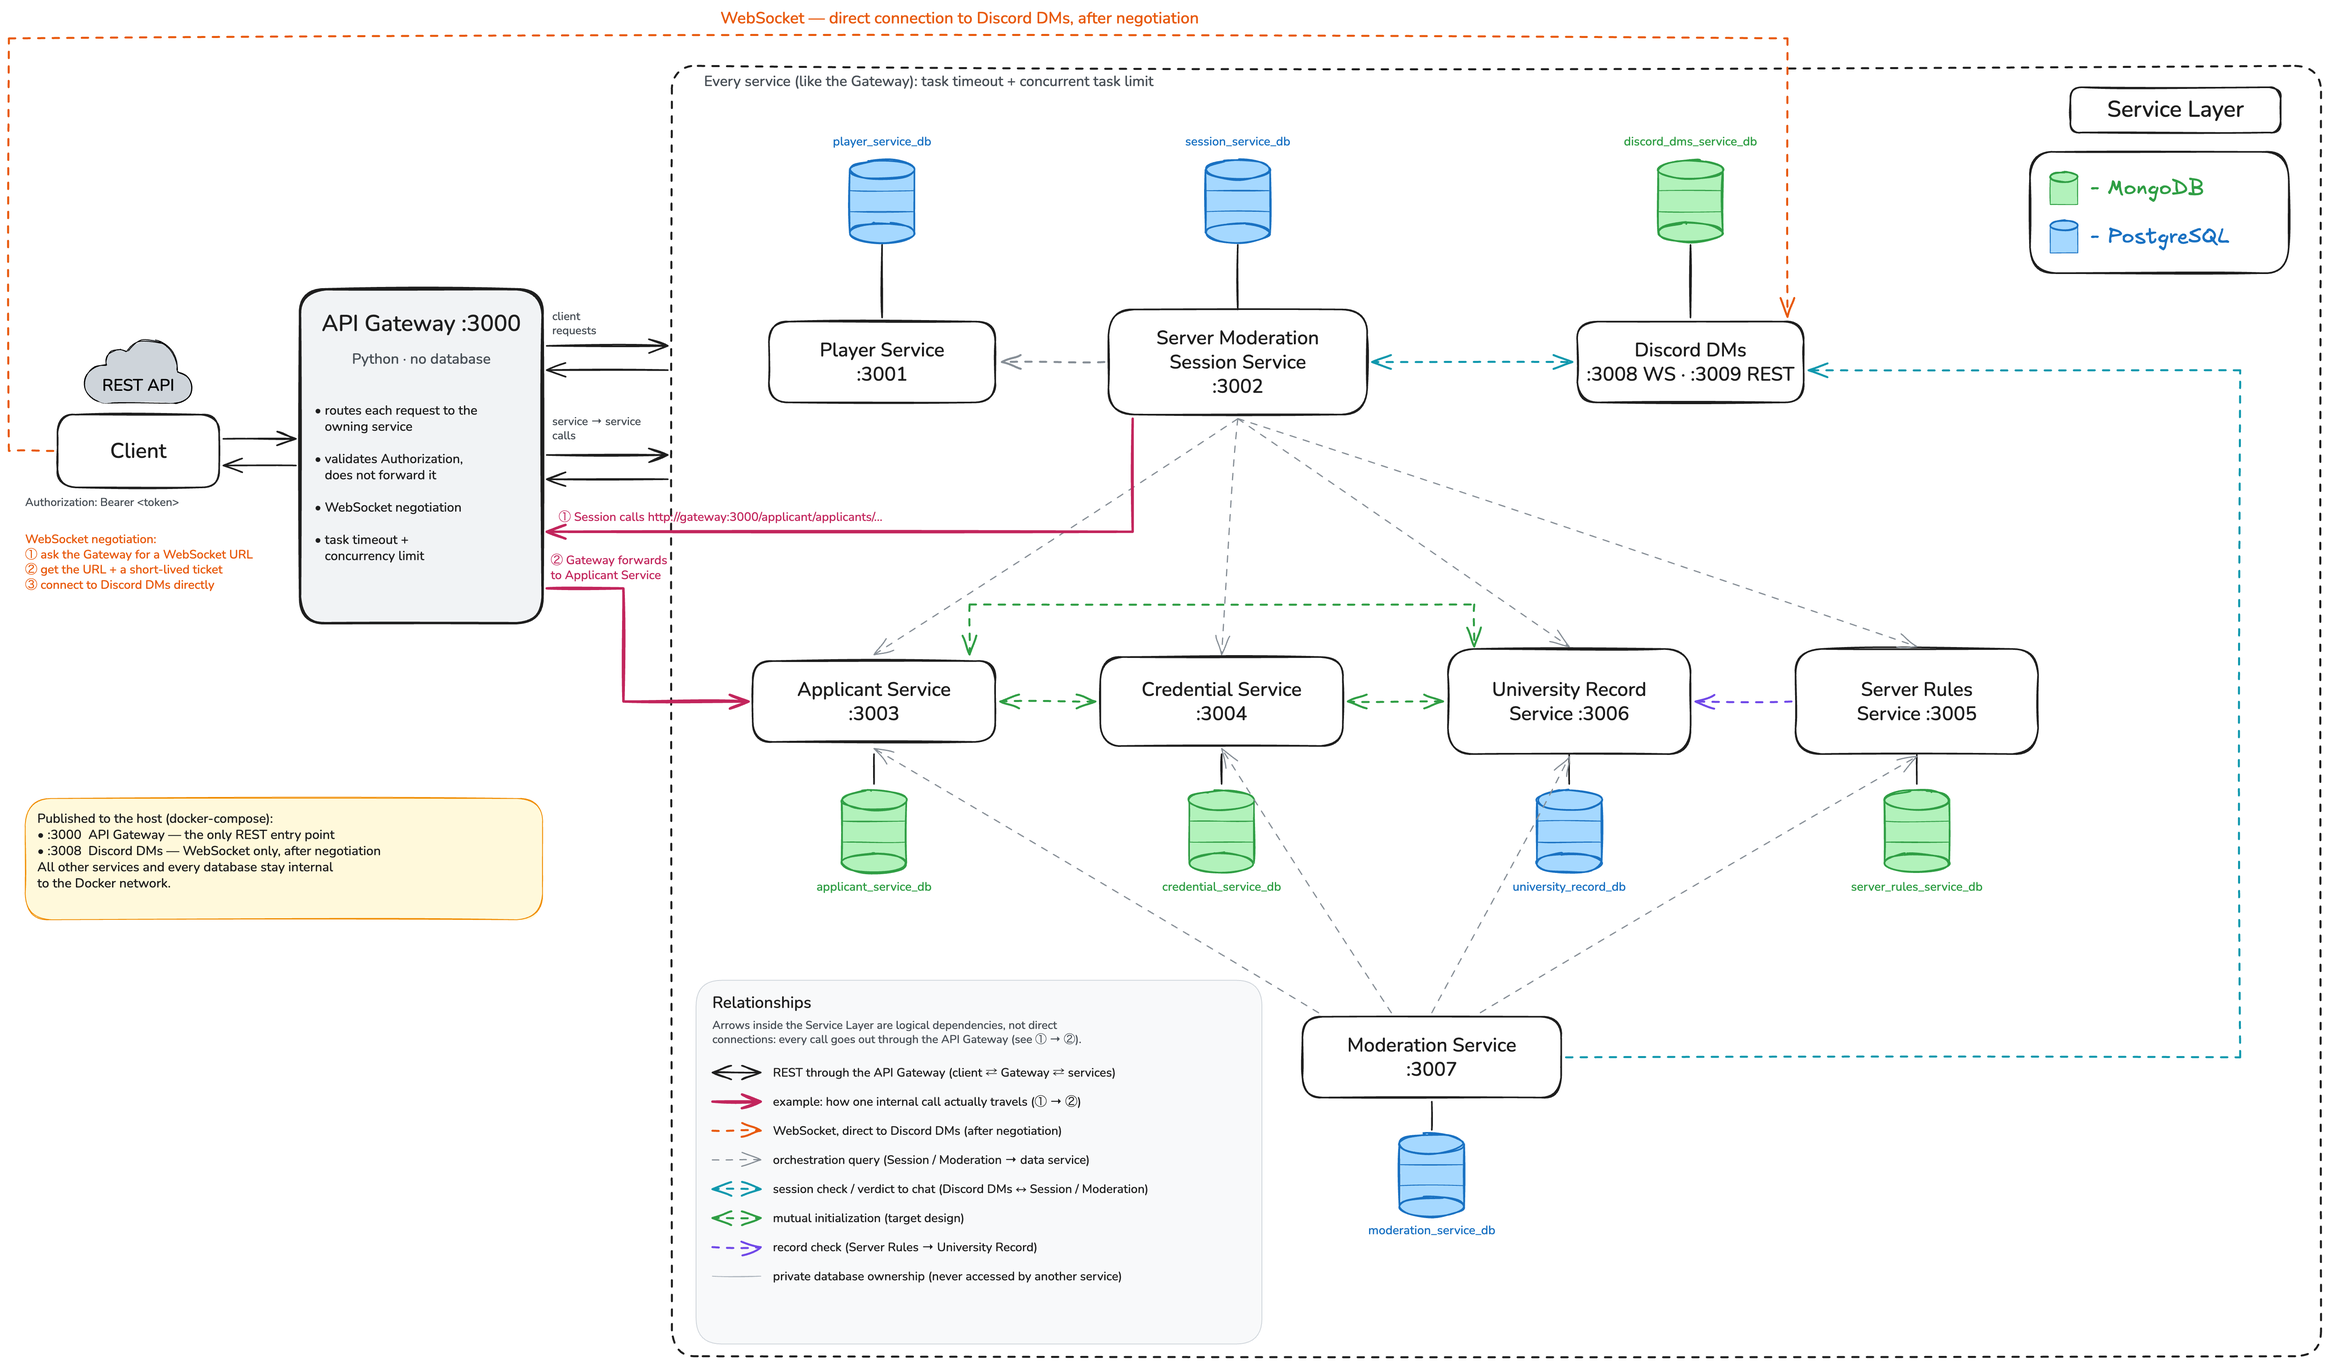
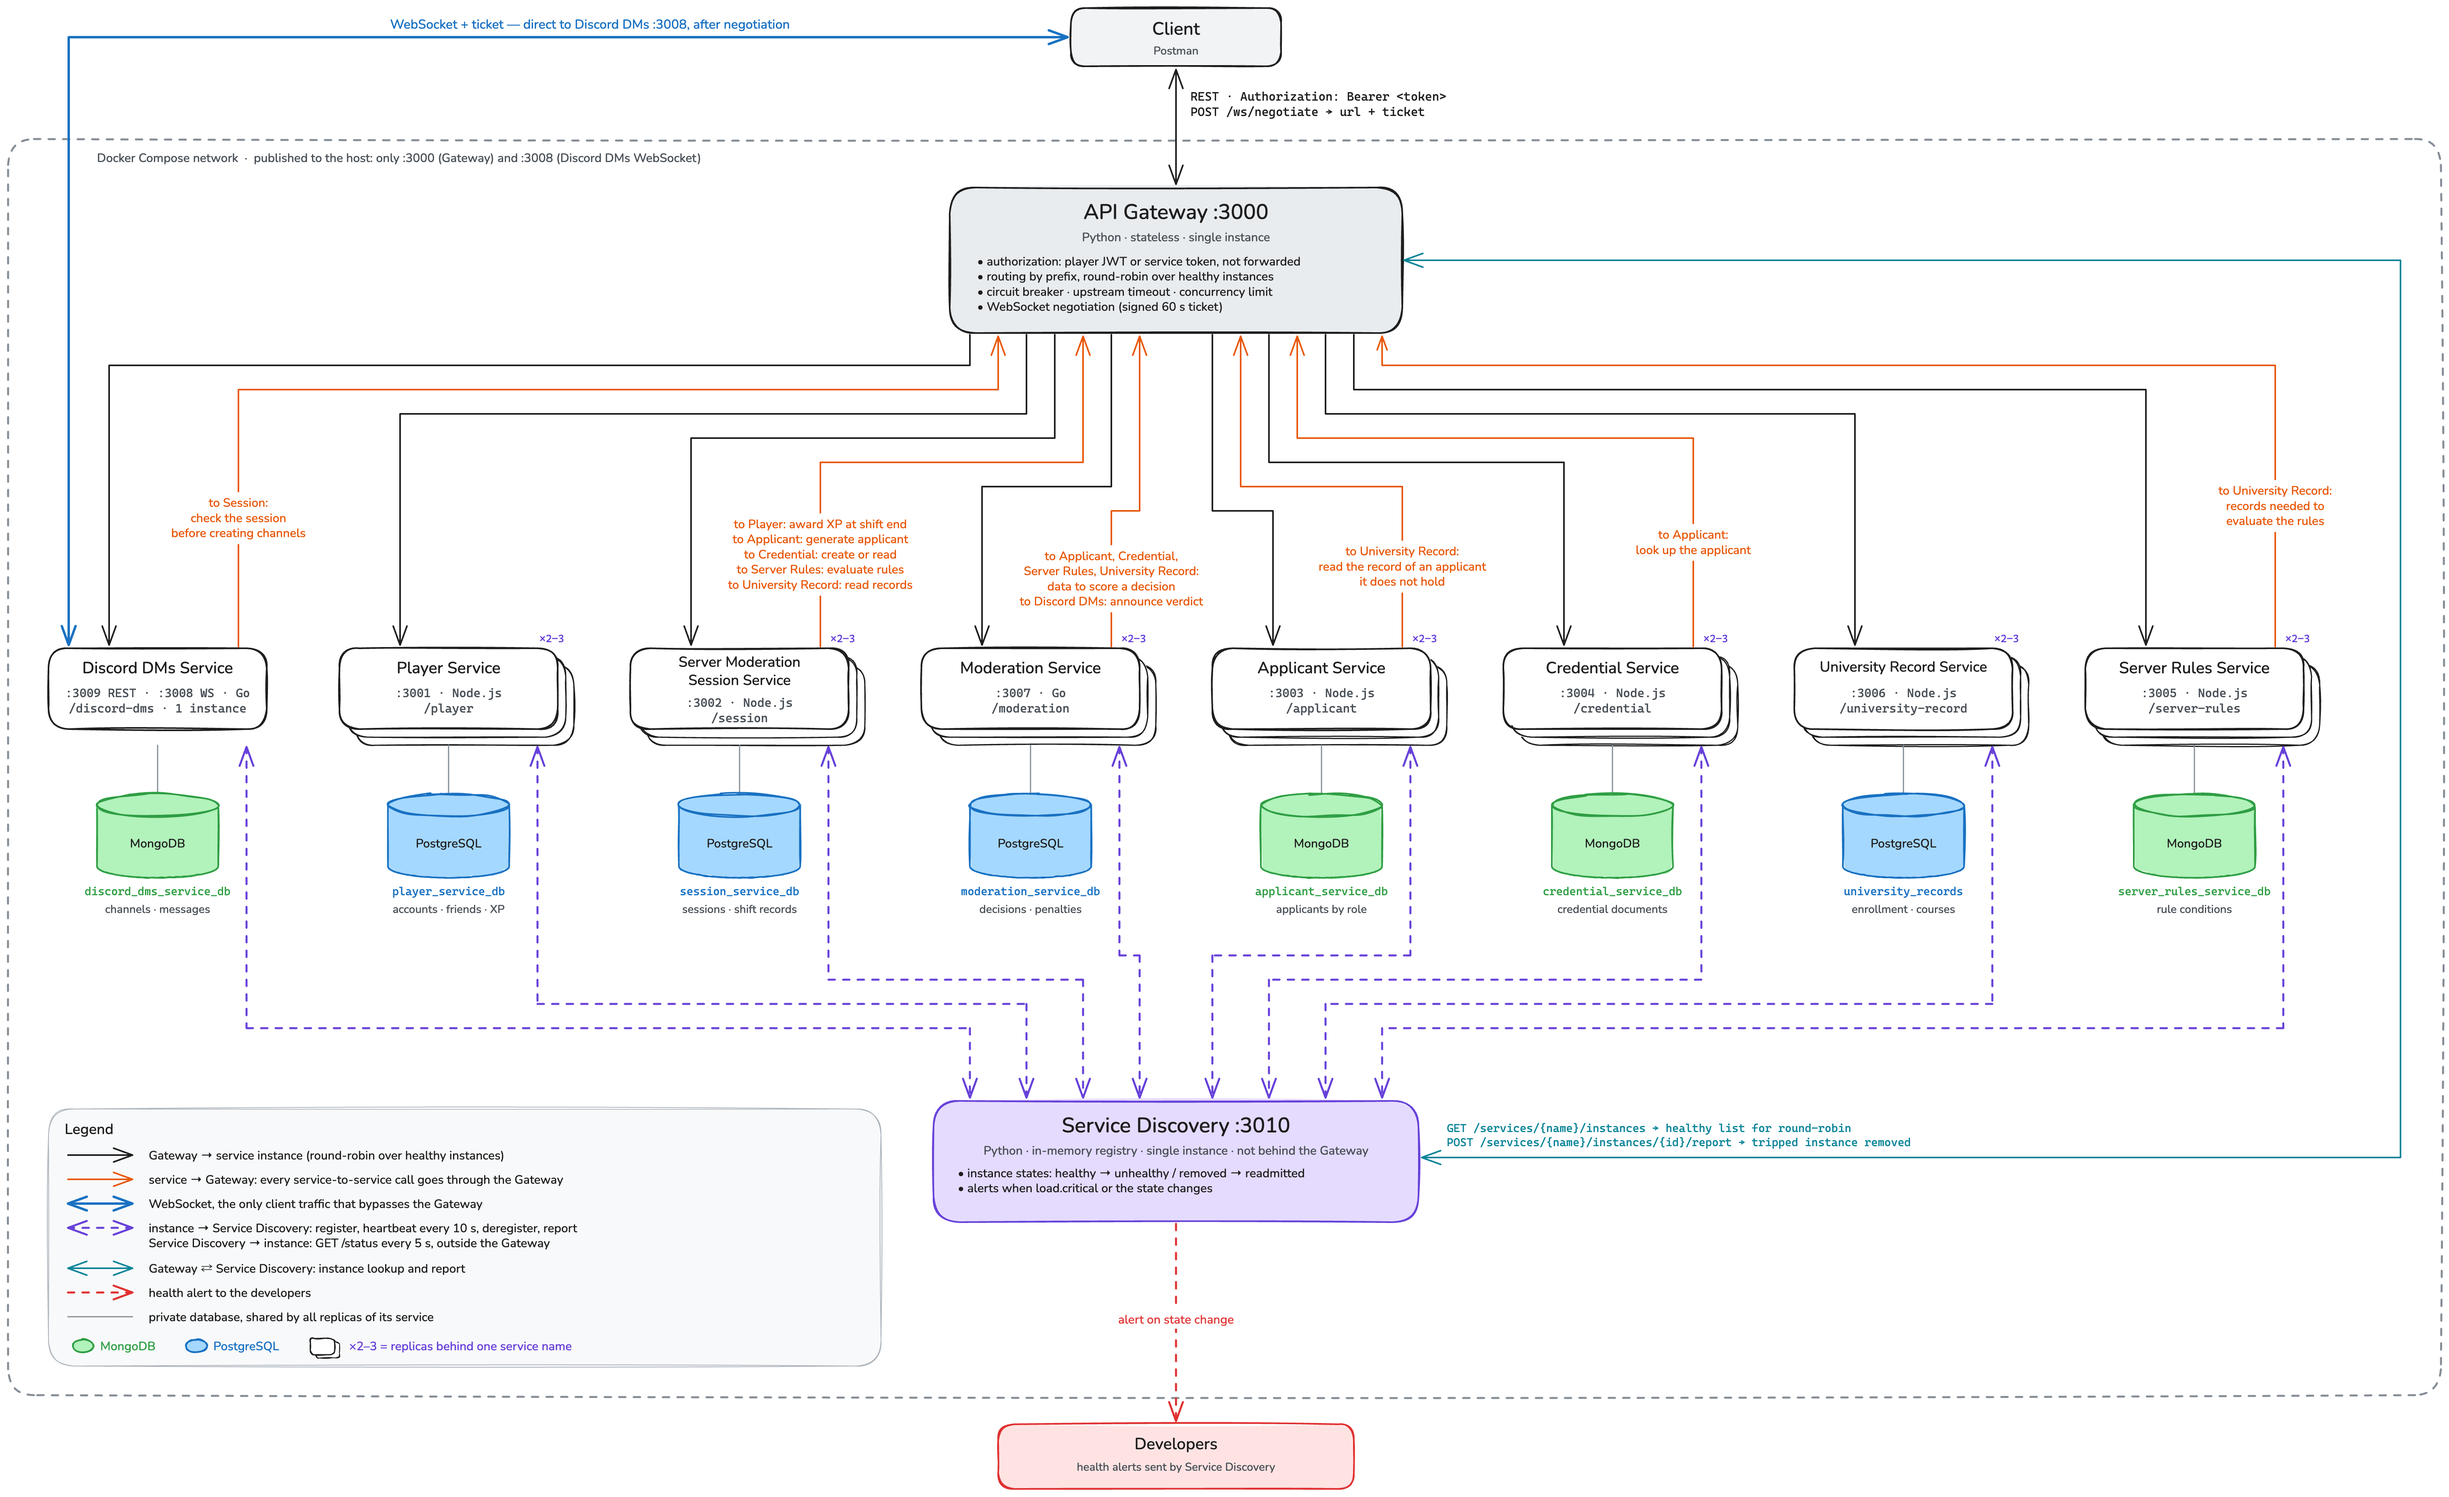
docs(diagram): redraw architecture diagram for lab 3 (#145)
* docs(diagram): redraw architecture diagram for lab 3

* docs(readme): describe the lab 3 architecture diagram

* docs(diagram): add exported lab 3 diagram image

* docs(diagram): drop the excalidraw source from the repo

* docs(diagram): re-export the lab 3 diagram image

* docs(readme): point to data management for mutual initialization

diff --git a/README.md b/README.md
@@ -111,26 +111,28 @@ It does **not** own any player, session, applicant, credential, rule, record, de
 
 ![Architecture](./docs/architecture.png)
 
-The **API Gateway** (port `3000`, Python, no database) is the single entry point of the system. The Client sends every REST request to the Gateway with an `Authorization: Bearer <token>` header; the Gateway validates it, does not forward it downstream, and routes the request to the service that owns the resource. The services sit inside a single **Service Layer** boundary and are not published to the host — only the Gateway (`:3000`) and Discord DMs' WebSocket listener (`:3008`) are. Each service's database is drawn as a labeled cylinder next to it, color-coded MongoDB (green) vs. PostgreSQL (blue).
+The Client reaches the system only through the **API Gateway** (`:3000`, Python, one instance). It sends every REST request with `Authorization: Bearer <token>`; the Gateway validates the token, does not forward it, takes the healthy instances of the target service from **Service Discovery** and forwards the request to one of them in round-robin order. The black arrows are these forwarded requests, one per service; each service box shows its port, language and route prefix.
 
-Arrows inside the Service Layer are **logical dependencies, not direct connections**: every service-to-service call also goes out through the Gateway. The pink path (① → ②) shows one example — Server Moderation Session Service calls `gateway:3000/applicant/…`, and the Gateway forwards the request to Applicant Service. The only traffic that bypasses the Gateway is the WebSocket (orange, dashed): the Client first asks the Gateway for a WebSocket URL and a short-lived ticket, then connects to Discord DMs directly. Every service, like the Gateway, enforces a task timeout and a concurrent task limit. The legend explains the remaining line styles: orchestration queries (Session/Moderation calling a data service), session checks and verdicts relayed to chat, the Applicant/Credential/University Record mutual-initialization trio (target design), and Server Rules' record check against University Record.
+Services never call each other directly. Every service-to-service call goes back out through the Gateway (orange arrows), which forwards it like any other request; each orange label names the target service and what the call is for. The only traffic that bypasses the Gateway is the Discord DMs WebSocket (blue): the Client first gets a URL and a signed 60-second ticket from `POST /ws/negotiate`, then connects to Discord DMs on `:3008` directly.
+
+Every service except Discord DMs runs as 2–3 replicas (stacked boxes) behind one service name, and all replicas of a service share its private database (green: MongoDB, blue: PostgreSQL), labelled with the database name and what it stores. Discord DMs runs as one instance, because `:3008` is published to the host and a message sent to one replica would not reach sockets connected to another.
+
+**Service Discovery** (`:3010`, Python, one instance, in-memory registry) is the one REST exception to "everything goes through the Gateway", because the Gateway depends on it. Each instance registers on startup, sends a heartbeat every 10 s, deregisters on shutdown and reports an instance whose circuit breaker tripped; Service Discovery calls every instance's `/status` every 5 s (purple, dashed). The Gateway reads the healthy instances from it and reports tripped instances to it (teal). When an instance changes state or its load becomes critical, Service Discovery alerts the developers (red, dashed).
+
+Only the Gateway (`:3000`) and the Discord DMs WebSocket (`:3008`) are published to the host; everything else stays inside the Docker Compose network.
 
 **Service Relationships**
 
-Every relationship below is a REST call sent through the Gateway, which forwards it to the target service; no service calls another one directly.
+Every relationship below is a REST call sent through the Gateway, which forwards it to a healthy instance of the target service.
 
-Server Moderation Session Service acts as the central coordinator during an active shift. It queries Applicant Service for the current applicant, Credential Service to check submitted documents, Server Rules Service to evaluate the applicant against current access rules, and University Record Service to pull any hidden records needed for verification. Once a shift ends, it sends the result to Player Service so XP and levels can be updated.
-This is exposed concretely through `POST /sessions/{id}/process-applicant`, which calls the real services when their URLs are configured (as they all are in the shared `docker-compose.yml`) and falls back to contract-shaped mocks when a service is unset or unreachable. The response's `sources` object says, per dependency, whether the answer was `live` or `mock`.
-
-Moderation Service independently gathers the same four services — Applicant, Credential, Server Rules, and University Record — to determine whether the Moderator's decision (Accept, Reject, Flag, or Ban) was correct under the current rules. It does not talk to Player Service or Session Service; it only consumes applicant-side data to produce a verdict.
-
-Applicant Service, Credential Service, and University Record Service share a mutual initialization pattern: whichever of the three is contacted first for a new applicant creates that applicant's record and propagates the relevant data to the other two. This is why all three are connected to each other rather than routing through a single source of truth. This is the target design; no service propagates records yet (see "Status in Lab 1" under Data Management).
-
-Server Rules Service also calls University Record Service, since rule evaluation can require checking specific university records (e.g. enrollment length, prior ban status) rather than relying only on what the applicant presents.
-
-Discord DMs Service is tied to the active session: it provides the real-time channels (`#enrollment-check`, `#faculty-check`, etc.) that Junior Moderators use to share findings during a shift, and it checks sessions against Server Moderation Session Service. Moderation Service also calls Discord DMs Service, since the Moderator's final decision needs to be relayed back to the team through chat. Players reach these channels over the WebSocket described above, not through the Gateway.
-
-Player Service sits at the edge of this graph — it only receives shift outcomes from Session Service and has no relationship with the applicant-side services (Applicant, Credential, Server Rules, University Record) or with Moderation Service.
+- **Server Moderation Session Service** coordinates a shift. For each applicant it asks Applicant Service to generate the applicant, Credential Service to create or read its credential, Server Rules Service to evaluate the rules and University Record Service for the applicant's records. When the shift ends, it sends the earned XP to Player Service.
+- **Moderation Service** gathers data from Applicant, Credential, Server Rules and University Record to score the Moderator's decision (Accept, Reject, Flag or Ban), and announces the verdict through Discord DMs Service.
+- **Discord DMs Service** checks a session against Server Moderation Session Service before creating its channels and roster.
+- **Applicant Service** reads from University Record Service the record of an applicant it does not hold.
+- **Credential Service** looks up the applicant in Applicant Service.
+- **Server Rules Service** reads from University Record Service the records it needs to evaluate the rules.
+- **Player Service** and **University Record Service** call no other service.
+- Applicant, Credential and University Record Service are meant to create each other's records for a new applicant (mutual initialization, see Data Management Across Microservices); no service does this yet, so the diagram does not show it.
 
 ## Tech Stack & Communication Patterns
 
